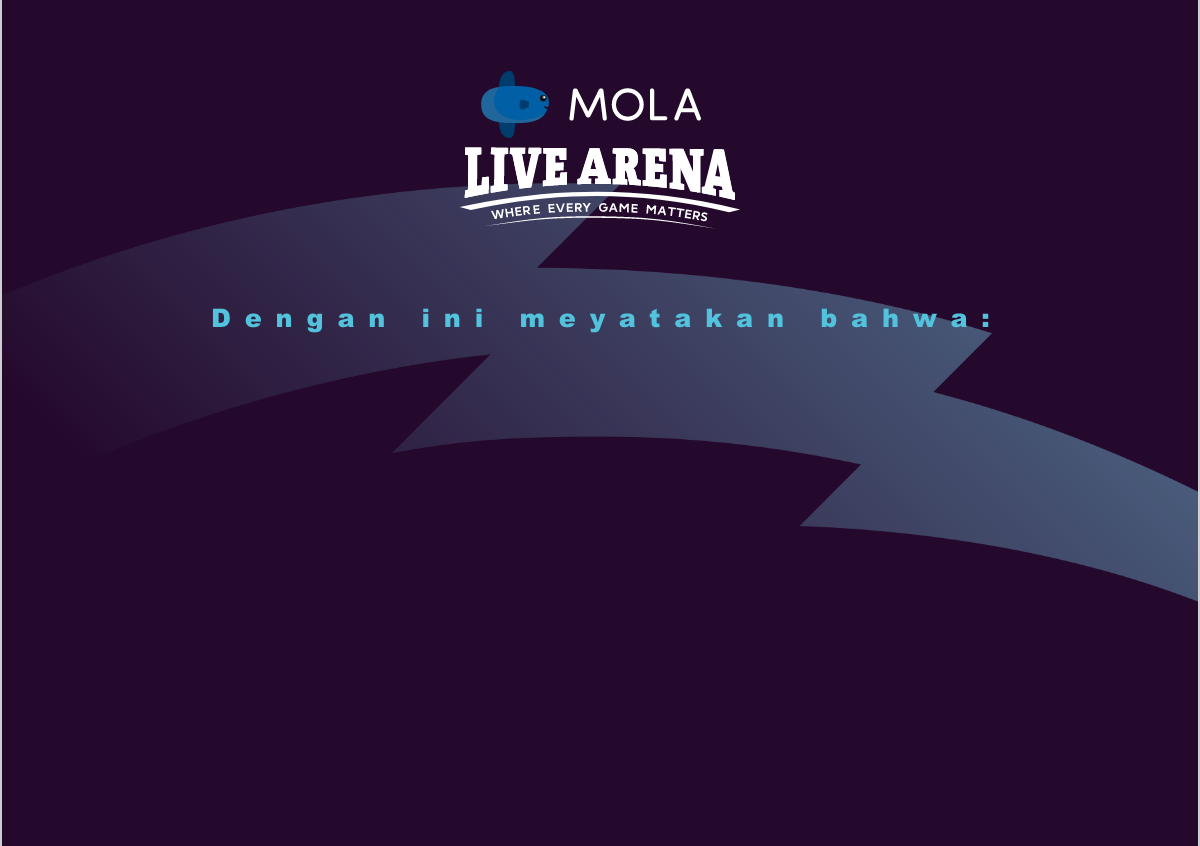
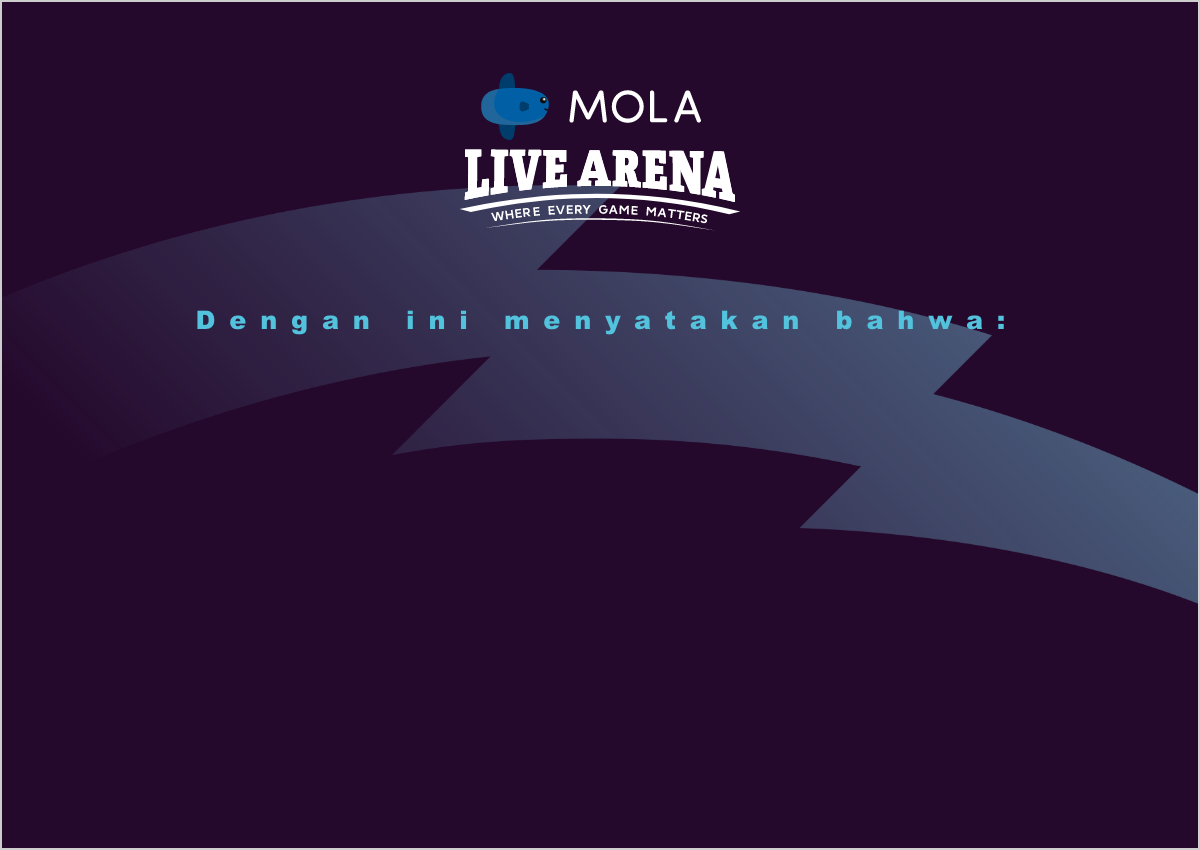
add background

diff --git a/pkg/email/core.go b/pkg/email/core.go
@@ -101,7 +101,7 @@ func (c *core) GetBase64Png(licenseNum string) (string, string) {
 	png := qr.Bytes()
 	b64Png := base64.StdEncoding.EncodeToString(png)
 
-	file, err = os.Open("file/img/background.png") // a QR code image
+	file, err = os.Open("file/img/background1.png") // a QR code image
 
 	if err != nil {
 		return "0", "0"
